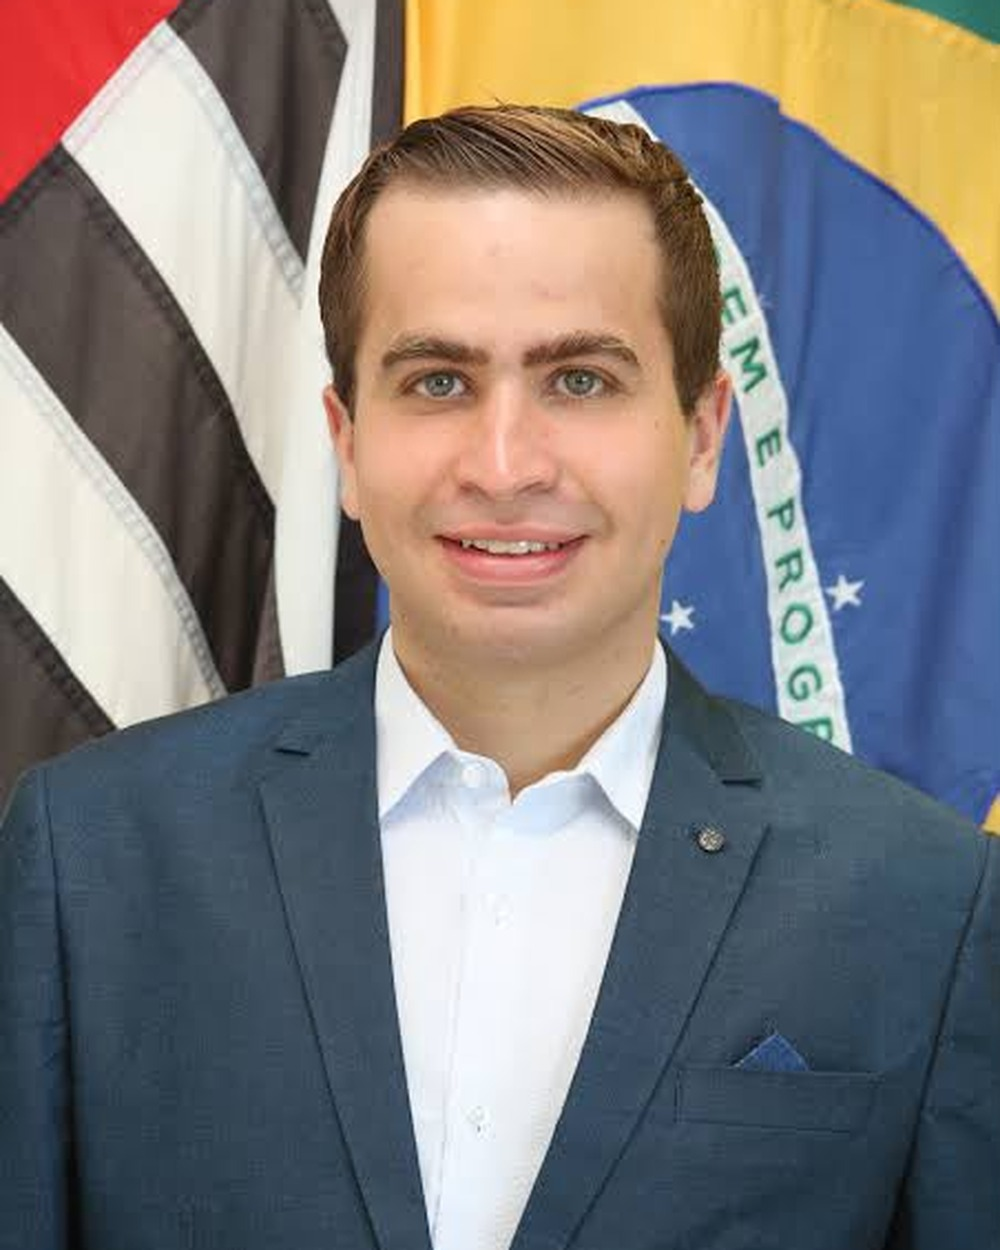
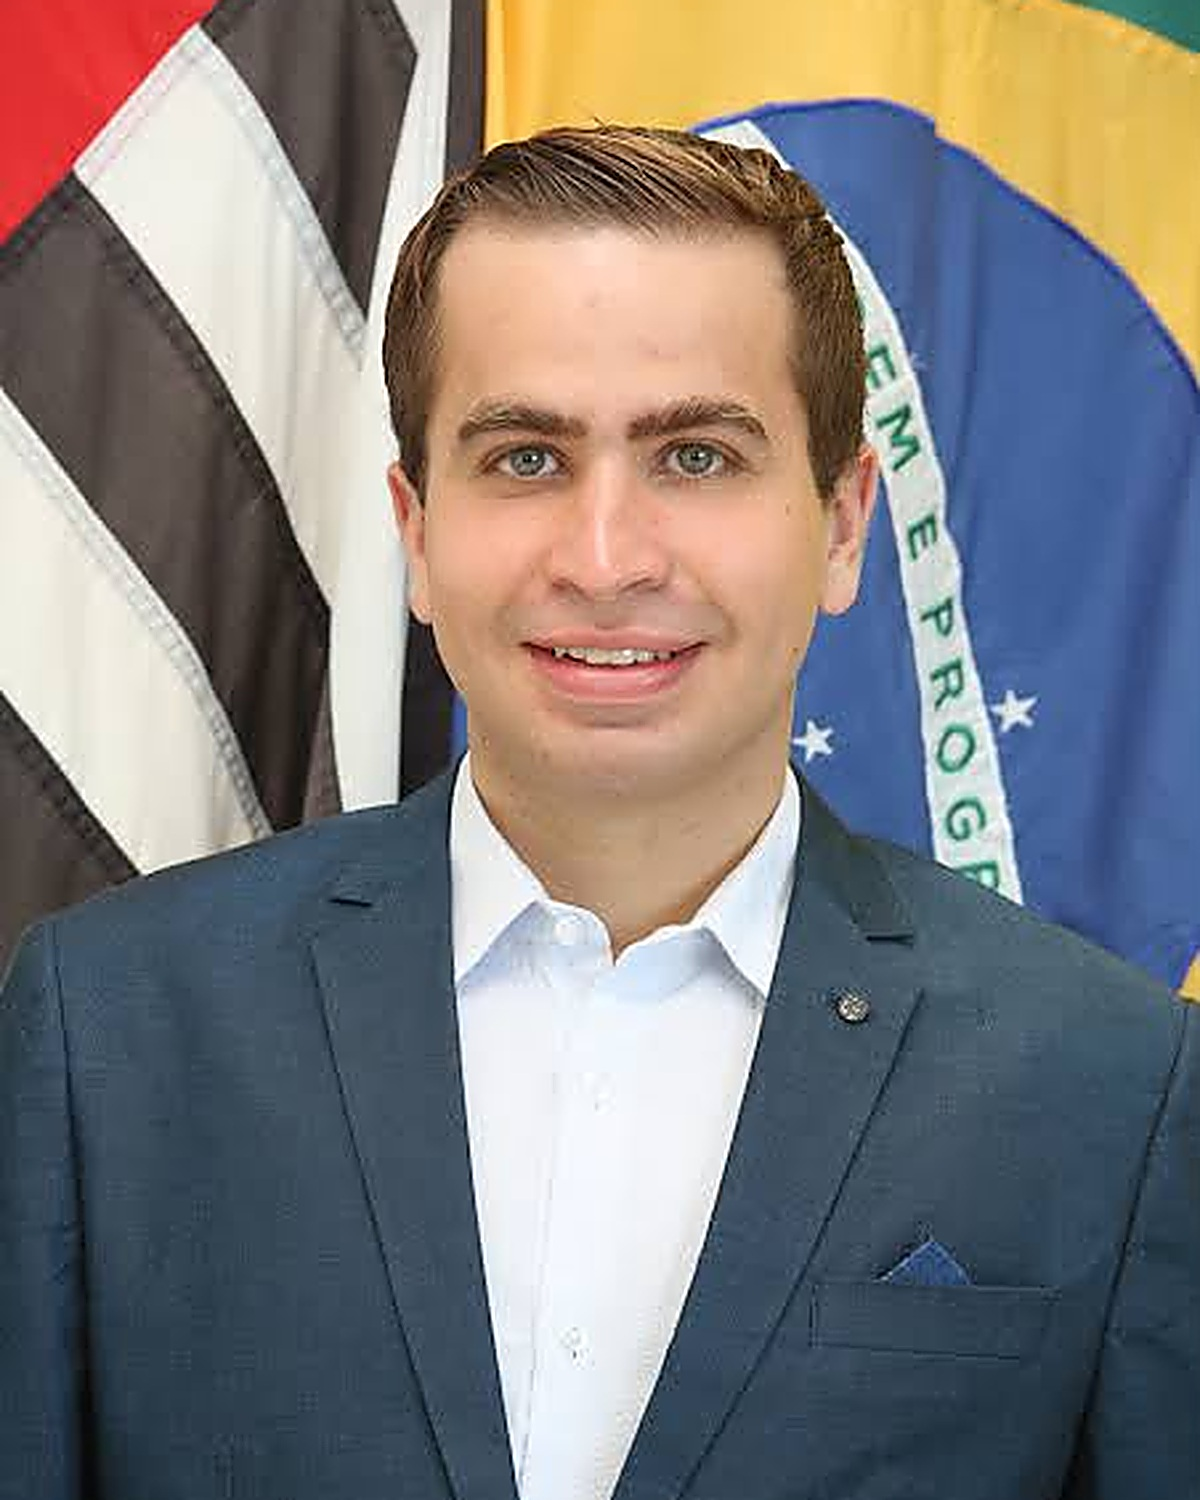
Onca-pintada como textura, compartilhamento por WhatsApp e barra movel
A onca-pintada, simbolo do Missao, deixa de existir so no texto: vira uma
pelagem de rosetas em ladrilho sem emenda, aplicada em tres intensidades no
heroi, nas propostas e na vaquinha, com mascara radial para nao competir com
o conteudo.

Novo bloco de espalhamento com envio direto no WhatsApp e copia do link, e
barra fixa de acao no celular com Apoiar e Compartilhar. O WhatsApp e o canal
decisivo em campanha e a pagina nao o explorava.

Adiciona icone de aba e de app, que faltavam. Reprocessa o retrato do Italo
em 1200x1500 com mascara de nitidez, recuperando definicao perdida no upscale
da origem de 452px, e refaz a arte de compartilhamento com ele. Retrato do
heroi ganha profundidade sutil ao mover o mouse.

Claude-Session: https://claude.ai/code/session_011W89nM4SC4WJ6gK1msPnMM

Changed region(s): [[0.465, 0.0936, 0.62, 0.1248], [0.372, 0.4992, 0.403, 0.5616], [0.341, 0.1248, 0.372, 0.156]]

diff --git a/index.html b/index.html
@@ -9,15 +9,17 @@
 <meta property="og:title" content="Ítalo Moreira · Deputado Estadual 2026">
 <meta property="og:description" content="O vereador mais produtivo da história de Sorocaba agora em Missão por São Paulo. 7.000+ proposituras, 100+ denúncias ao MP.">
 <meta property="og:url" content="https://italo-moreira-2026.vercel.app/">
-<meta property="og:image" content="https://italo-moreira-2026.vercel.app/assets/og.jpg?v=2">
+<meta property="og:image" content="https://italo-moreira-2026.vercel.app/assets/og.jpg?v=3">
 <meta property="og:image:width" content="1200">
 <meta property="og:image:height" content="630">
 <meta property="og:locale" content="pt_BR">
 <meta name="twitter:card" content="summary_large_image">
 <meta name="twitter:title" content="Ítalo Moreira · Deputado Estadual 2026">
 <meta name="twitter:description" content="O vereador mais produtivo da história de Sorocaba agora em Missão por São Paulo.">
-<meta name="twitter:image" content="https://italo-moreira-2026.vercel.app/assets/og.jpg?v=2">
+<meta name="twitter:image" content="https://italo-moreira-2026.vercel.app/assets/og.jpg?v=3">
 <meta name="theme-color" content="#0B0A08">
+<link rel="icon" type="image/png" sizes="32x32" href="assets/favicon-32.png">
+<link rel="apple-touch-icon" href="assets/icone-180.png">
 <style>
   :root{
     --ink:#0B0A08;
@@ -132,6 +134,36 @@
 
   /* ---------- barra de progresso ---------- */
   #progress{position:fixed;top:0;left:0;height:3px;width:0;background:linear-gradient(90deg,var(--verde),var(--onca) 50%,var(--azul));z-index:99;box-shadow:0 0 12px rgba(255,196,0,.55)}
+
+  /* ---------- pelagem da onça: símbolo do partido como textura ---------- */
+  .onca-fundo{position:relative;isolation:isolate}
+  .onca-fundo::after{
+    content:"";position:absolute;inset:0;z-index:-1;pointer-events:none;
+    background:url("assets/onca-tile.png") repeat;
+    background-size:260px 260px;
+    opacity:var(--pelo,.5);
+    -webkit-mask-image:radial-gradient(120% 90% at 50% 40%,#000 20%,transparent 78%);
+    mask-image:radial-gradient(120% 90% at 50% 40%,#000 20%,transparent 78%);
+  }
+
+  /* ---------- barra fixa de ação no celular ---------- */
+  .barra-acao{display:none}
+  @media(max-width:720px){
+    .barra-acao{
+      display:flex;gap:10px;position:fixed;left:0;right:0;bottom:0;z-index:96;
+      padding:10px 12px calc(10px + env(safe-area-inset-bottom));
+      background:linear-gradient(180deg,rgba(11,10,8,.72),rgba(11,10,8,.97));
+      backdrop-filter:blur(12px);border-top:1px solid var(--line);
+    }
+    .barra-acao a{
+      flex:1;text-align:center;padding:14px 8px;border-radius:12px;
+      font-weight:800;font-size:15px;letter-spacing:.01em;
+    }
+    .ba-doar{background:linear-gradient(100deg,var(--onca),#FFD84D);color:var(--ink)}
+    .ba-zap{background:var(--verde);color:#fff}
+    body{padding-bottom:78px}
+    .preview-stamp{bottom:86px}
+  }
 
   /* ---------- nav ---------- */
   nav{
@@ -525,6 +557,23 @@
     letter-spacing:.06em;margin-top:20px;display:block;
   }
 
+  /* ---------- espalhe ---------- */
+  .espalhe{max-width:760px;margin:34px auto 0;text-align:center}
+  .espalhe-tit{font-weight:900;text-transform:uppercase;font-size:clamp(22px,2.8vw,32px);letter-spacing:-.01em}
+  .espalhe-sub{color:var(--stone);margin:10px auto 22px;max-width:46ch}
+  .espalhe-btns{display:flex;gap:12px;justify-content:center;flex-wrap:wrap}
+  .btn-zap,.btn-copiar{
+    display:inline-flex;align-items:center;gap:10px;cursor:pointer;
+    font-weight:800;font-size:15.5px;font-family:var(--font-display);
+    padding:15px 26px;border-radius:999px;border:0;
+    transition:transform .2s,box-shadow .2s,background .2s,color .2s;
+  }
+  .btn-zap{background:var(--verde);color:#fff;box-shadow:0 8px 26px rgba(0,155,58,.32)}
+  .btn-zap:hover{transform:translateY(-3px);box-shadow:0 14px 38px rgba(0,155,58,.45)}
+  .btn-copiar{background:transparent;color:var(--paper);border:2px solid rgba(251,248,240,.26)}
+  .btn-copiar:hover{border-color:var(--onca);color:var(--onca);transform:translateY(-3px)}
+  .btn-copiar.ok{background:var(--onca);color:var(--ink);border-color:var(--onca)}
+
   /* ---------- faça parte ---------- */
   .join-grid{display:grid;grid-template-columns:1fr 1fr;gap:60px;align-items:center;margin-top:40px}
   @media(max-width:920px){.join-grid{grid-template-columns:1fr}}
@@ -617,6 +666,10 @@
 
 <div id="progress"></div>
 <div class="preview-stamp">Prévia · Proposta</div>
+<div class="barra-acao">
+  <a class="ba-doar" href="#doar">💛 Apoiar</a>
+  <a class="ba-zap" href="https://wa.me/?text=Conhe%C3%A7a%20o%20trabalho%20do%20%C3%8Dtalo%20Moreira%2C%20o%20vereador%20mais%20produtivo%20da%20hist%C3%B3ria%20de%20Sorocaba%2C%20agora%20pr%C3%A9-candidato%20a%20Deputado%20Estadual%20por%20SP%3A%20https%3A%2F%2Fitalo-moreira-2026.vercel.app" target="_blank" rel="noopener">Compartilhar</a>
+</div>
 
 <nav id="nav">
   <div class="logo">ÍTALO <b>MOREIRA</b></div>
@@ -630,7 +683,7 @@
 </nav>
 
 <!-- ======================= HERO ======================= -->
-<header class="hero">
+<header class="hero onca-fundo" style="--pelo:.28">
   <canvas id="dust"></canvas>
   <div class="hero-grid">
     <div>
@@ -652,7 +705,7 @@
     </div>
     <div>
       <div class="photo-frame" id="heroPhoto">
-        <img class="ph-img" src="assets/italo.jpg?v=5" alt="Ítalo Moreira" loading="eager"
+        <img class="ph-img" src="assets/italo.jpg?v=6" alt="Ítalo Moreira" loading="eager"
              onload="this.closest('.photo-frame').classList.add('ready')" onerror="this.remove()">
         <span class="duo"></span>
         <span class="ph-empty">
@@ -731,7 +784,7 @@
 
 <!-- ======================= PROPOSTAS ======================= -->
 <div class="bridge" style="--a:var(--claro);--b:var(--ink)" aria-hidden="true"></div>
-<section class="section" id="propostas" style="background:linear-gradient(180deg,var(--ink),var(--coal))">
+<section class="section onca-fundo" id="propostas" style="background:linear-gradient(180deg,var(--ink),var(--coal));--pelo:.55">
   <div class="wrap">
     <span class="eyebrow rv">Propostas para São Paulo</span>
     <h2 class="sec-title rv">A Missão continua.<br>Agora pelo Estado inteiro.</h2>
@@ -860,7 +913,7 @@
 </section>
 
 <!-- ======================= DOAÇÃO ======================= -->
-<section class="section donate" id="doar">
+<section class="section donate onca-fundo" id="doar" style="--pelo:.4">
   <div class="wrap">
     <span class="eyebrow rv" style="justify-content:center">Vaquinha eleitoral</span>
     <h2 class="sec-title rv">Toda grande Missão<br>começa com apoio</h2>
@@ -873,6 +926,18 @@
       </p>
       <a class="btn btn-solid" href="https://queroapoiar.com.br/italomoreira" target="_blank" rel="noopener">💛 Doar agora</a>
       <a class="donate-url" href="https://queroapoiar.com.br/italomoreira" target="_blank" rel="noopener">queroapoiar.com.br/italomoreira</a>
+    </div>
+
+    <div class="espalhe rv d2">
+      <p class="espalhe-tit">Não pode doar? <span class="hl"><span>Espalhe.</span></span></p>
+      <p class="espalhe-sub">Um voto convencido vale por dez panfletos. Mande esta página para os seus grupos.</p>
+      <div class="espalhe-btns">
+        <a class="btn-zap" href="https://wa.me/?text=Conhe%C3%A7a%20o%20trabalho%20do%20%C3%8Dtalo%20Moreira%2C%20o%20vereador%20mais%20produtivo%20da%20hist%C3%B3ria%20de%20Sorocaba%2C%20agora%20pr%C3%A9-candidato%20a%20Deputado%20Estadual%20por%20SP%3A%20https%3A%2F%2Fitalo-moreira-2026.vercel.app" target="_blank" rel="noopener">
+          <svg viewBox="0 0 24 24" width="20" height="20" aria-hidden="true" fill="currentColor"><path d="M12 2a10 10 0 0 0-8.7 15l-1.3 4.7 4.8-1.3A10 10 0 1 0 12 2zm0 2a8 8 0 1 1-4.1 14.9l-.4-.2-2.5.7.7-2.4-.3-.4A8 8 0 0 1 12 4zm4.5 10.2c-.2-.1-1.4-.7-1.6-.8-.2-.1-.4-.1-.5.1l-.7.9c-.1.2-.3.2-.5.1a6.5 6.5 0 0 1-3.2-2.8c-.1-.2 0-.4.1-.5l.4-.5c.1-.2.1-.3 0-.5l-.7-1.6c-.2-.4-.4-.4-.5-.4h-.5c-.2 0-.5.1-.7.3-.8.8-1 1.9-.6 3a9.4 9.4 0 0 0 4.4 4.4c1.4.6 2.5.5 3.2-.1.3-.3.5-.7.5-1.1v-.5c0-.1-.1-.2-.3-.3z"/></svg>
+          Enviar no WhatsApp
+        </a>
+        <button class="btn-copiar" id="btnCopiar" type="button">Copiar o link</button>
+      </div>
     </div>
   </div>
 </section>
@@ -1049,6 +1114,47 @@
         var y = Math.min(scrollY, 700);
         heroImg.style.transform = 'scale(1.08) translateY(' + (y * 0.05) + 'px)';
       }, {passive:true});
+    }
+  }
+
+  /* copiar o link da página */
+  var btnC = document.getElementById('btnCopiar');
+  if(btnC){
+    btnC.addEventListener('click', function(){
+      var url = 'https://italo-moreira-2026.vercel.app';
+      var pronto = function(){
+        btnC.textContent = '✓ Link copiado';
+        btnC.classList.add('ok');
+        setTimeout(function(){ btnC.textContent = 'Copiar o link'; btnC.classList.remove('ok'); }, 2400);
+      };
+      if(navigator.clipboard && navigator.clipboard.writeText){
+        navigator.clipboard.writeText(url).then(pronto, pronto);
+      } else {
+        var t = document.createElement('textarea');
+        t.value = url; document.body.appendChild(t); t.select();
+        try{ document.execCommand('copy'); }catch(e){}
+        document.body.removeChild(t); pronto();
+      }
+    });
+  }
+
+  /* retrato do herói com leve profundidade ao mover o mouse */
+  if(!reduced && matchMedia('(hover:hover)').matches){
+    var moldura = document.getElementById('heroPhoto');
+    if(moldura){
+      moldura.style.transition = 'transform .35s cubic-bezier(.2,.7,.2,1)';
+      moldura.addEventListener('mousemove', function(e){
+        var r = moldura.getBoundingClientRect();
+        var x = (e.clientX - r.left)/r.width - .5;
+        var y = (e.clientY - r.top)/r.height - .5;
+        moldura.style.transition = 'transform .08s linear';
+        moldura.style.transform =
+          'perspective(900px) rotateY(' + (x*6).toFixed(2) + 'deg) rotateX(' + (-y*6).toFixed(2) + 'deg) scale(1.015)';
+      });
+      moldura.addEventListener('mouseleave', function(){
+        moldura.style.transition = 'transform .45s cubic-bezier(.2,.7,.2,1)';
+        moldura.style.transform = '';
+      });
     }
   }
 

diff --git a/ferramentas-ativos.py b/ferramentas-ativos.py
@@ -1,0 +1,81 @@
+from PIL import Image, ImageDraw, ImageFont, ImageFilter
+import math, random
+
+DEST = "/home/user/italomoreirasp/assets/"
+ONCA = (255, 196, 0)
+INK = (11, 10, 8)
+
+# ---------------------------------------------------------------- 1. retrato
+# a origem tem 452x678: o upscale sozinho amolece. Máscara de nitidez devolve
+# definição ao rosto sem criar halo visível.
+src = Image.open(DEST + "originais/italo-oficial-bandeiras.jpeg").convert("RGB")
+w, h = src.size
+alt = int(w * 1.25)
+y0 = max(0, min(28, h - alt))
+foto = src.crop((0, y0, w, y0 + alt)).resize((1200, 1500), Image.LANCZOS)
+foto = foto.filter(ImageFilter.UnsharpMask(radius=2.2, percent=115, threshold=3))
+foto.save(DEST + "italo.jpg", quality=94)
+print("italo.jpg -> 1200x1500 com máscara de nitidez")
+
+# ------------------------------------------------------------ 2. onça-pintada
+# rosetas em ladrilho perfeito: cada mancha é redesenhada nas quatro bordas
+# para o padrão emendar sem costura visível.
+T = 260
+tile = Image.new("RGBA", (T, T), (0, 0, 0, 0))
+td = ImageDraw.Draw(tile)
+rnd = random.Random(11)
+
+def roseta(cx, cy, r, rot):
+    for dx in (-T, 0, T):
+        for dy in (-T, 0, T):
+            x, y = cx + dx, cy + dy
+            if x < -r * 3 or x > T + r * 3 or y < -r * 3 or y > T + r * 3:
+                continue
+            # anel quebrado de manchas menores
+            n = 6
+            for k in range(n):
+                a = rot + k * (2 * math.pi / n) + rnd.uniform(-.16, .16)
+                px = x + math.cos(a) * r
+                py = y + math.sin(a) * r * .86
+                rr = r * rnd.uniform(.26, .40)
+                td.ellipse([px - rr, py - rr * .82, px + rr, py + rr * .82],
+                           fill=(0, 0, 0, 168))
+            # miolo
+            mr = r * .34
+            td.ellipse([x - mr, y - mr * .8, x + mr, y + mr * .8],
+                       fill=(0, 0, 0, 96))
+
+pontos = [(46, 52, 26), (168, 40, 21), (104, 148, 28),
+          (222, 152, 23), (28, 208, 20), (150, 236, 24), (236, 244, 18)]
+for cx, cy, r in pontos:
+    roseta(cx, cy, r, rnd.uniform(0, 6.28))
+
+tile = tile.filter(ImageFilter.GaussianBlur(.6))
+tile.save(DEST + "onca-tile.png")
+print("onca-tile.png -> 260x260 sem emenda")
+
+# ------------------------------------------------------------------ 3. ícone
+for tam, nome in [(180, "icone-180.png"), (32, "favicon-32.png")]:
+    ic = Image.new("RGB", (tam, tam), INK)
+    di = ImageDraw.Draw(ic)
+    # roseta de fundo, marca do partido
+    r = tam * .30
+    cx = cy = tam * .5
+    for k in range(6):
+        a = k * (2 * math.pi / 6) - .5
+        px, py = cx + math.cos(a) * r, cy + math.sin(a) * r * .9
+        rr = r * .30
+        di.ellipse([px - rr, py - rr, px + rr, py + rr], fill=(58, 44, 6))
+    f = ImageFont.truetype(
+        "/usr/share/fonts/truetype/liberation/LiberationSans-Bold.ttf",
+        int(tam * .52))
+    txt = "IM"
+    tw = di.textlength(txt, font=f)
+    asc, desc = f.getmetrics()
+    di.text((cx - tw / 2, cy - (asc - desc) / 2 - tam * .04), txt, font=f, fill=ONCA)
+    # faixa tricolor no rodapé do ícone
+    fx = max(2, tam // 16)
+    for i, cor in enumerate([(0, 175, 65), ONCA, (90, 130, 235)]):
+        di.rectangle([i * tam / 3, tam - fx, (i + 1) * tam / 3, tam], fill=cor)
+    ic.save(DEST + nome)
+    print(nome, "gerado")
